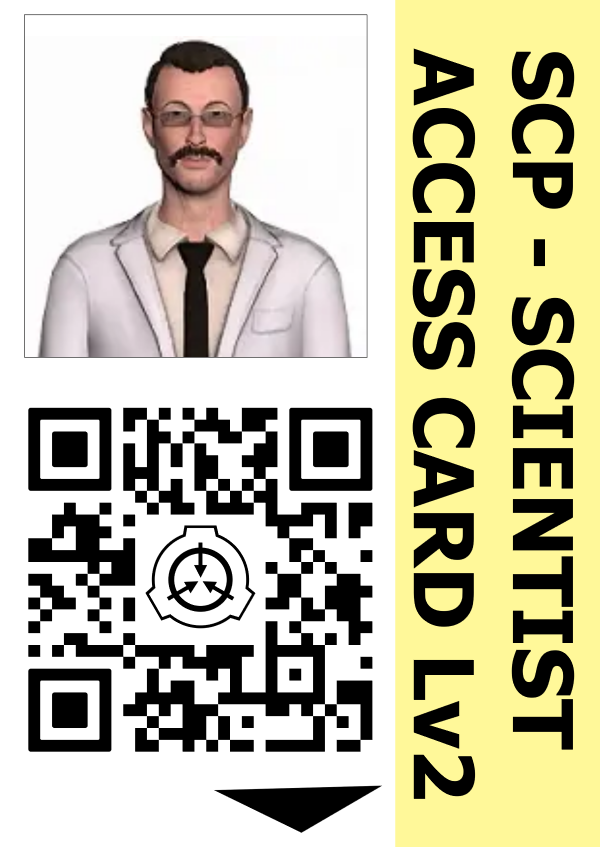
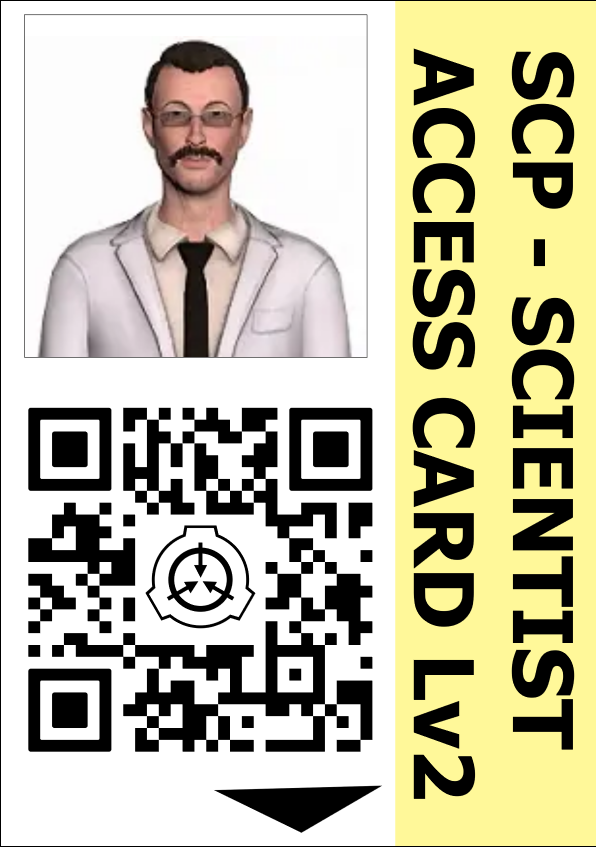
Style congrats.html

diff --git a/congrats.html b/congrats.html
@@ -44,11 +44,12 @@
             <p>Please use the download image button to download your identification card.</p>
         </div>
         <div id="id">
-            <img src="assets/images/scp-keycard.png">
+            <img src="assets/images/scp-keycard.png" id="id-card">
+            <span class="empty"></span>
             <button id="download"><a href="assets/images/scp-keycard.png" download="Level_2_Keycard.png">Download ID Card</a>
             </button>
         </div>
-        <div>
+        <div id="conclusion">
             <p>This concludes your orientation. Please ensure that you print your badge using non-anomalous means and report to your senior director for your first assignment.</p>
         </div>
         <div id="next-page">

diff --git a/assets/css/style.css b/assets/css/style.css
@@ -461,6 +461,42 @@ main {
 
 /* Congrats page */
 
+#id {
+  padding-top: 1em;
+  padding-bottom: 1em;
+  display: flex;
+  flex-direction: column;
+  justify-content: space-between;
+}
+
+#id-card {
+  width: 80%;
+  display: block;
+  height: auto;
+  margin-left: auto;
+  margin-right: auto;
+  border: 2px solid #030303;
+  border-radius: 3%;
+}
+
+#download {
+  font-family: 'Inter', Arial, sans-serif;
+  height: 2em;
+  align-self: center;
+  cursor: pointer;
+  border: 1px solid #030303;
+  padding: 3px;
+}
+
+#download a {
+  text-decoration: none;
+  color: #030303;
+}
+
+#conclusion {
+  padding-bottom: 2em;
+}
+
 /* 404 */
 
 #error {

diff --git a/README.md b/README.md
@@ -7,6 +7,10 @@ as a way to stoke curiosity, with many links, images, and references to the main
 
 ## Features ##
 
+
+### Congratulations Page ###
+The downloadable image has been purposefully left as a .png file in case Users wish to actually utilise it. A lot of non-web based applications do not recognise .webp and will either throw an error or change the file type.
+
 ## Design ##
 ### Wireframe ###
 
